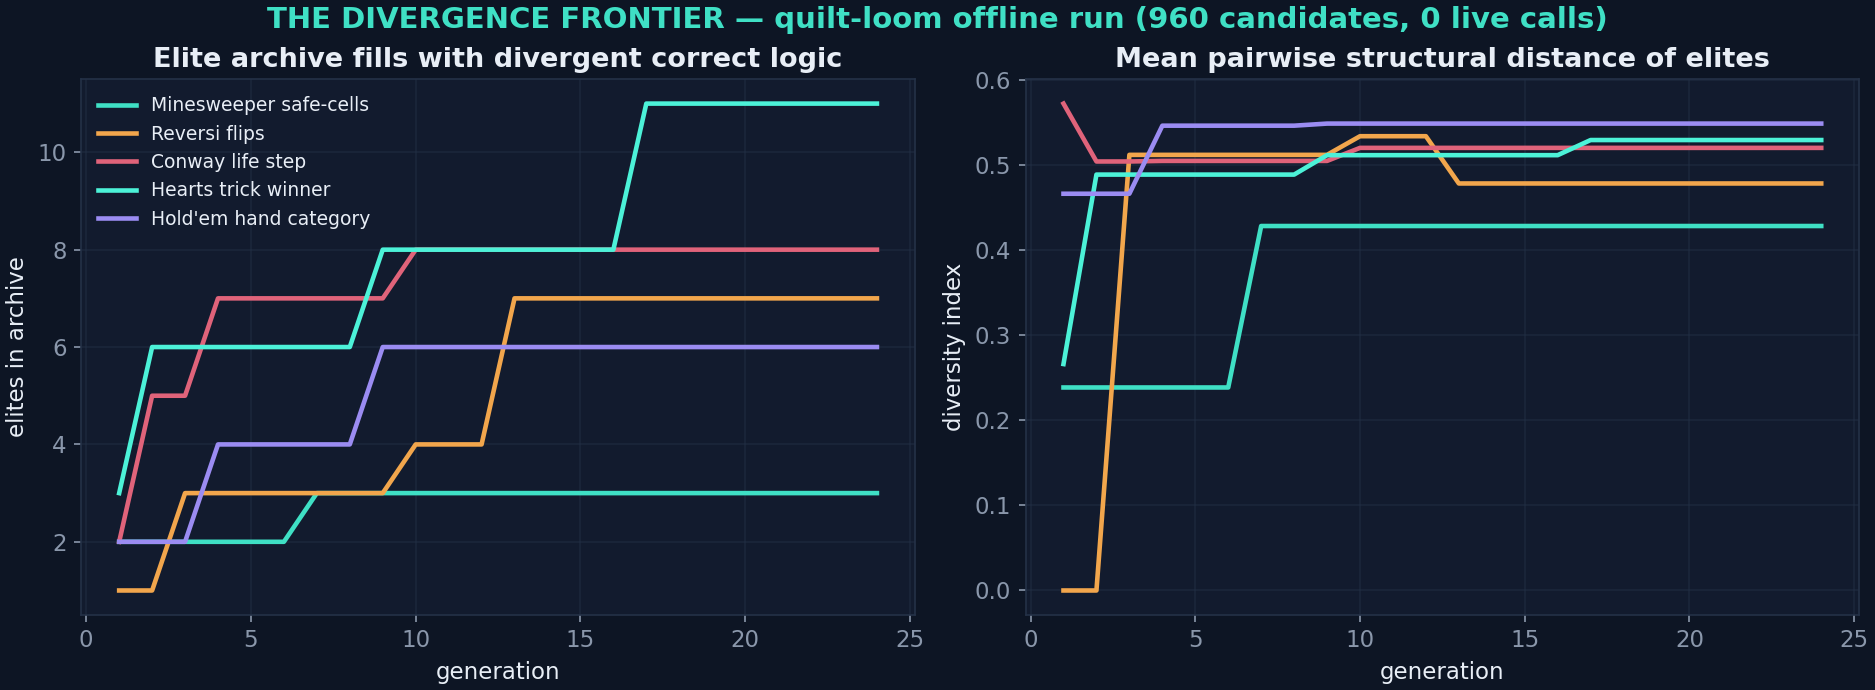
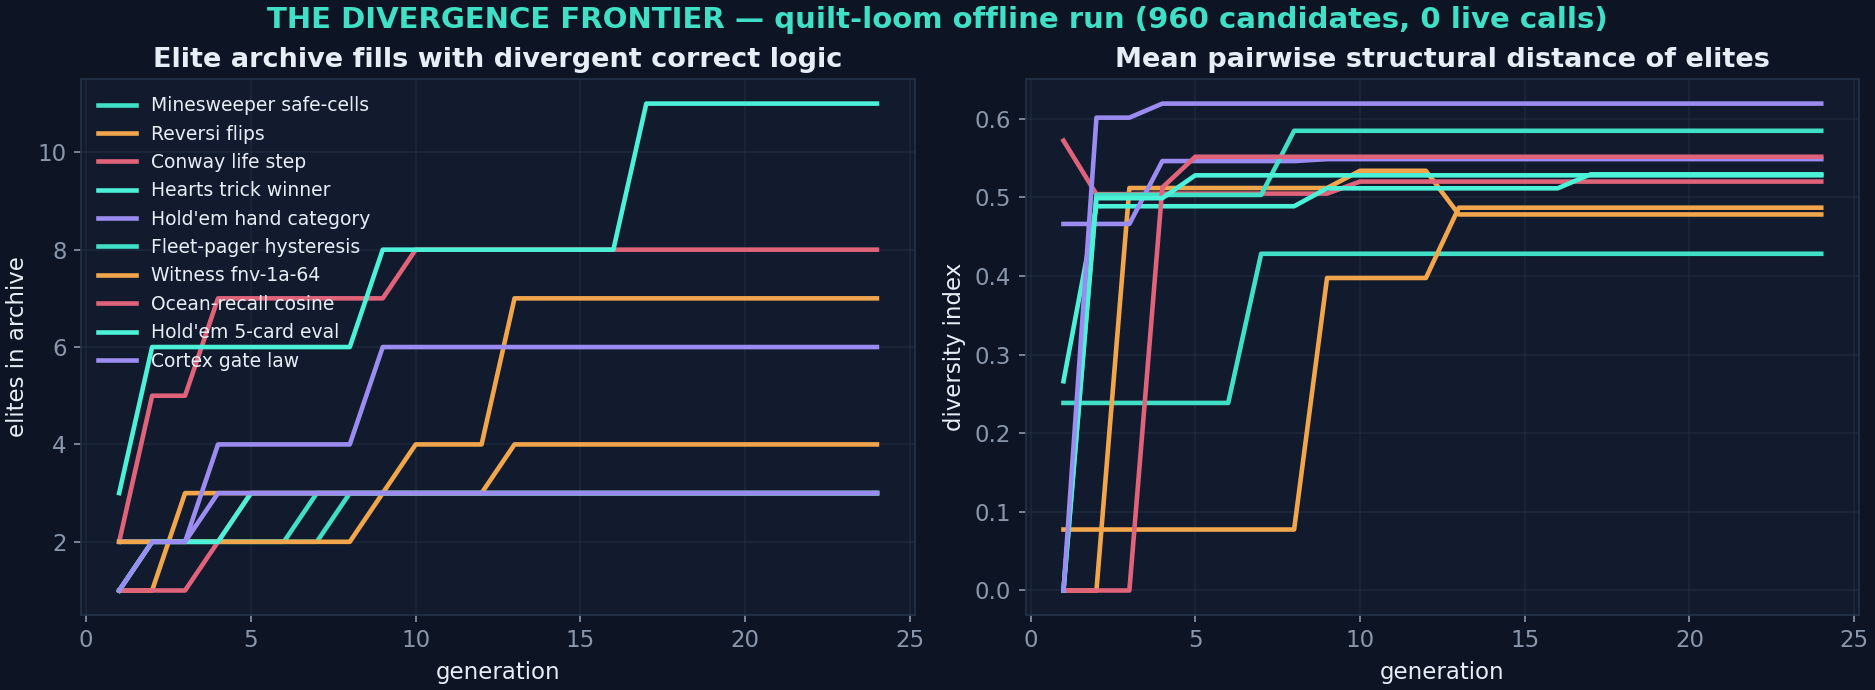
charts: register the 5 fleet targets (10-target divergence frontier) + rebuild playground

diff --git a/charts.py b/charts.py
@@ -25,8 +25,11 @@ reports = data['reports']
 
 NAMES = {'mines_safe': 'Minesweeper safe-cells', 'reversi_flips': 'Reversi flips',
          'life_step': 'Conway life step', 'hearts_trick': 'Hearts trick winner',
-         'holdem_cat': "Hold'em hand category"}
-SERIES = [TIDE, AMBER, ROSE, TIDE2, '#9B8CF2']
+         'holdem_cat': "Hold'em hand category",
+         'pager_band': 'Fleet-pager hysteresis', 'witness_fnv': 'Witness fnv-1a-64',
+         'cosine_sparse': 'Ocean-recall cosine', 'hand_eval5': "Hold'em 5-card eval",
+         'gate_law': 'Cortex gate law'}
+SERIES = [TIDE, AMBER, ROSE, TIDE2, '#9B8CF2', '#5FD3A5', '#F2A93B', '#7FB4F2', '#E06C9F', '#8CD867']
 
 # ── 1. the divergence frontier ──
 fig, (ax1, ax2) = plt.subplots(1, 2, figsize=(12.5, 4.6), constrained_layout=True)
